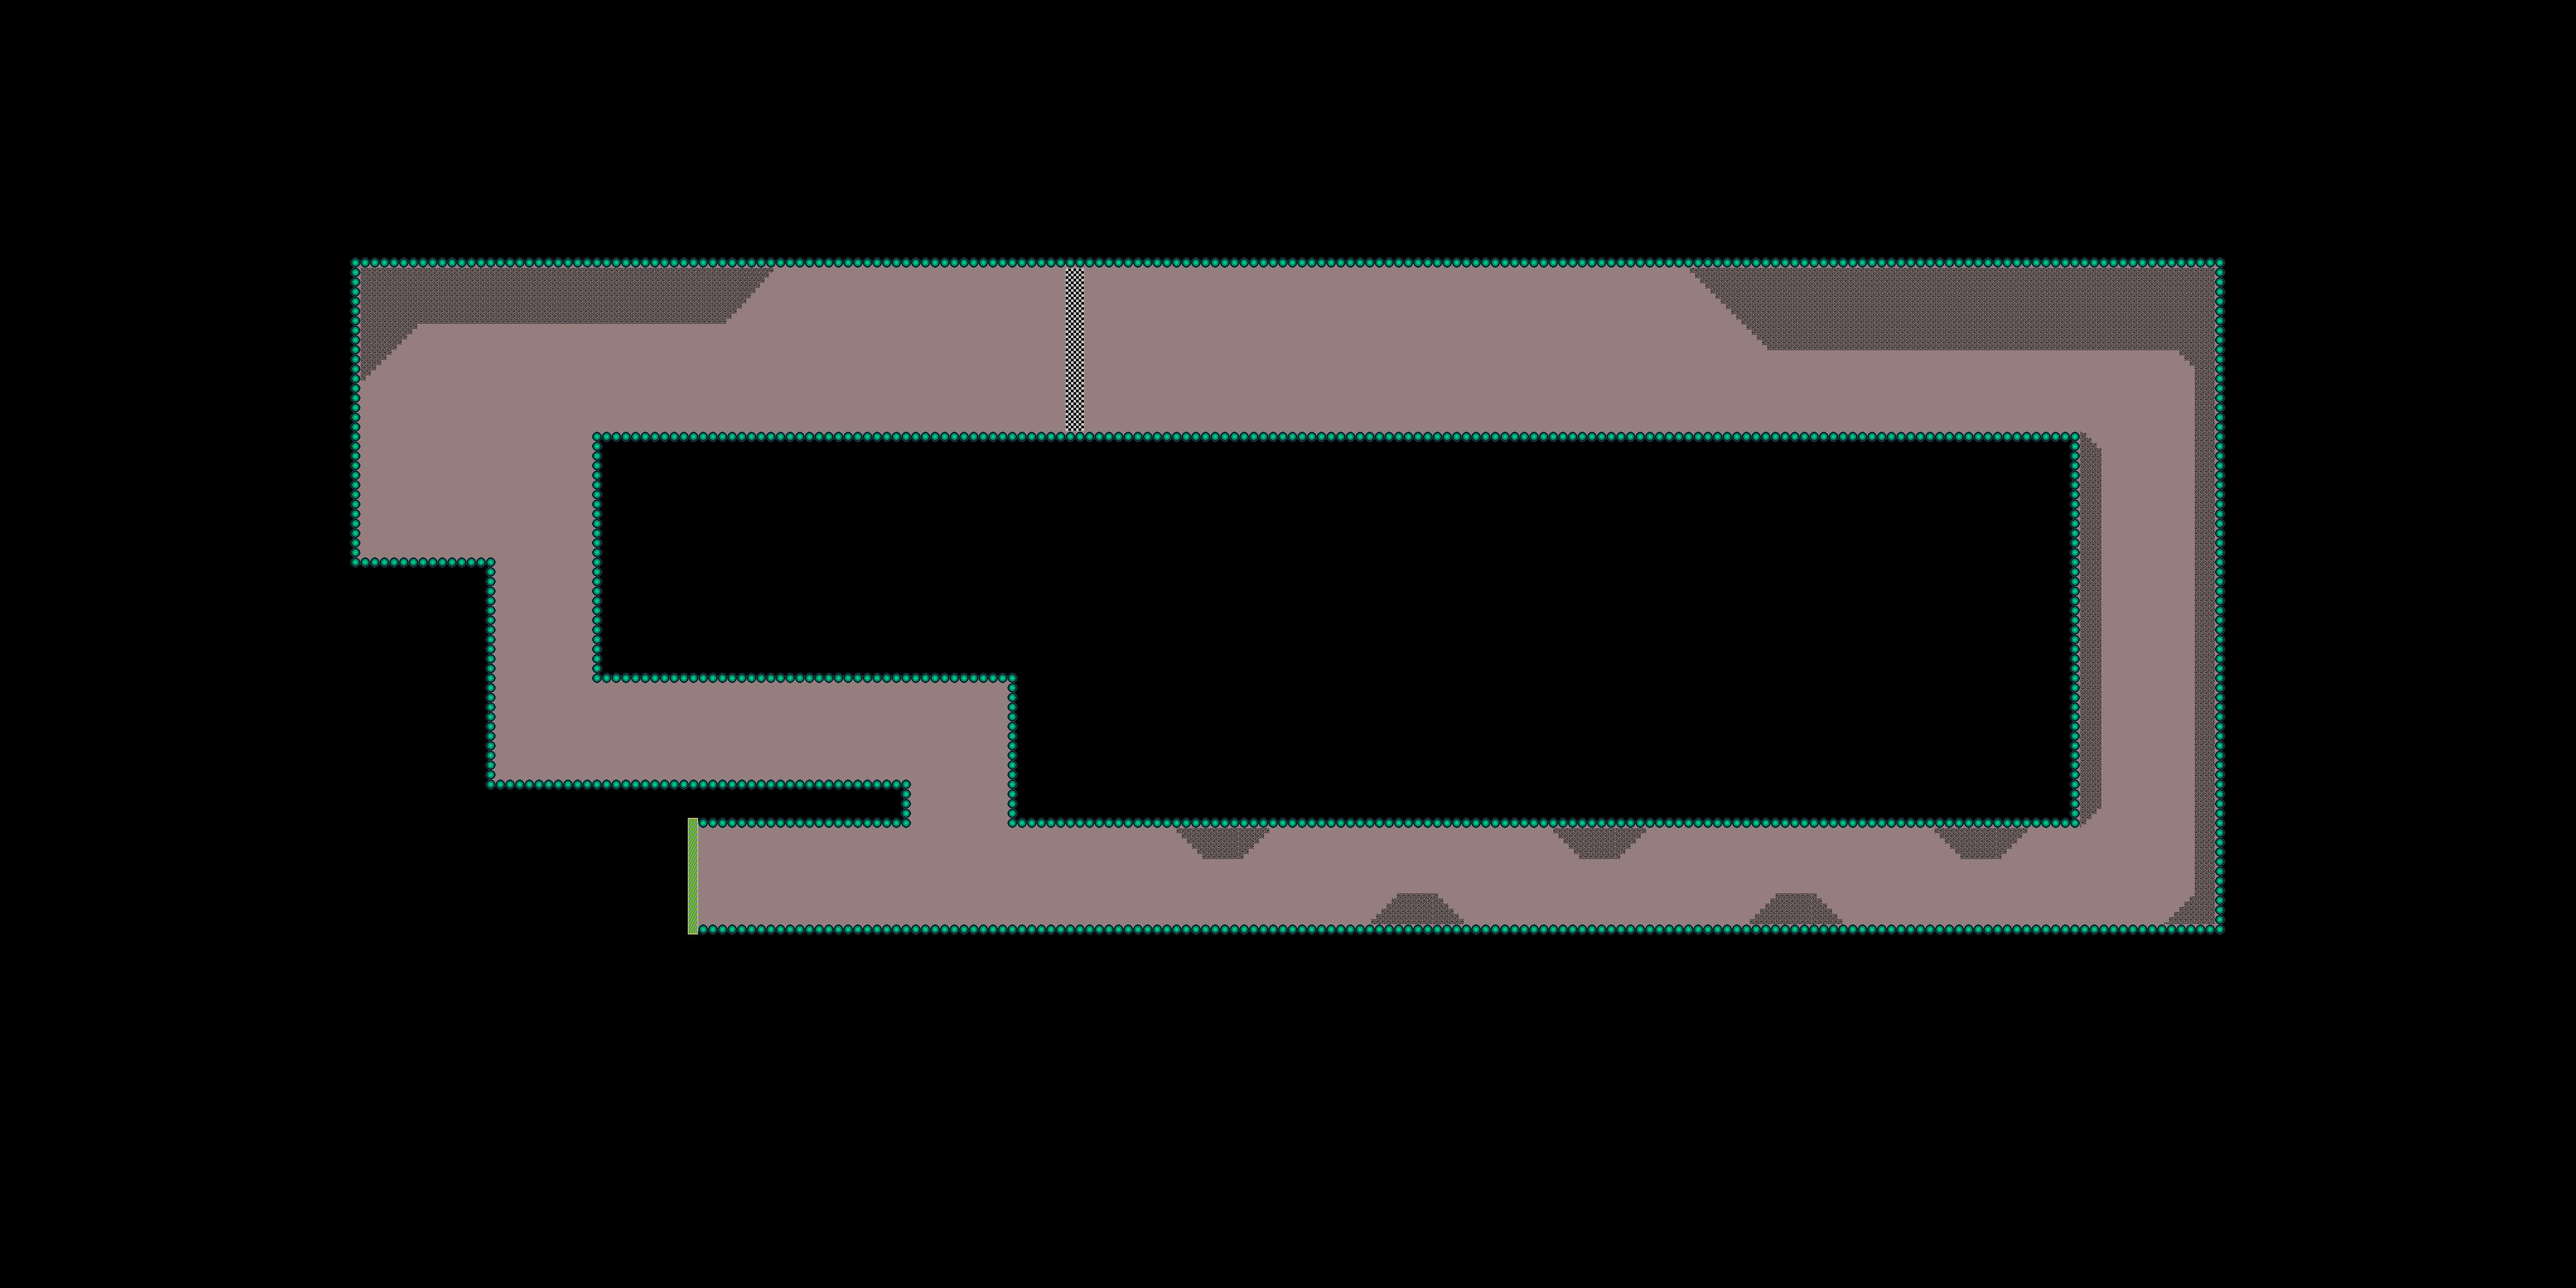
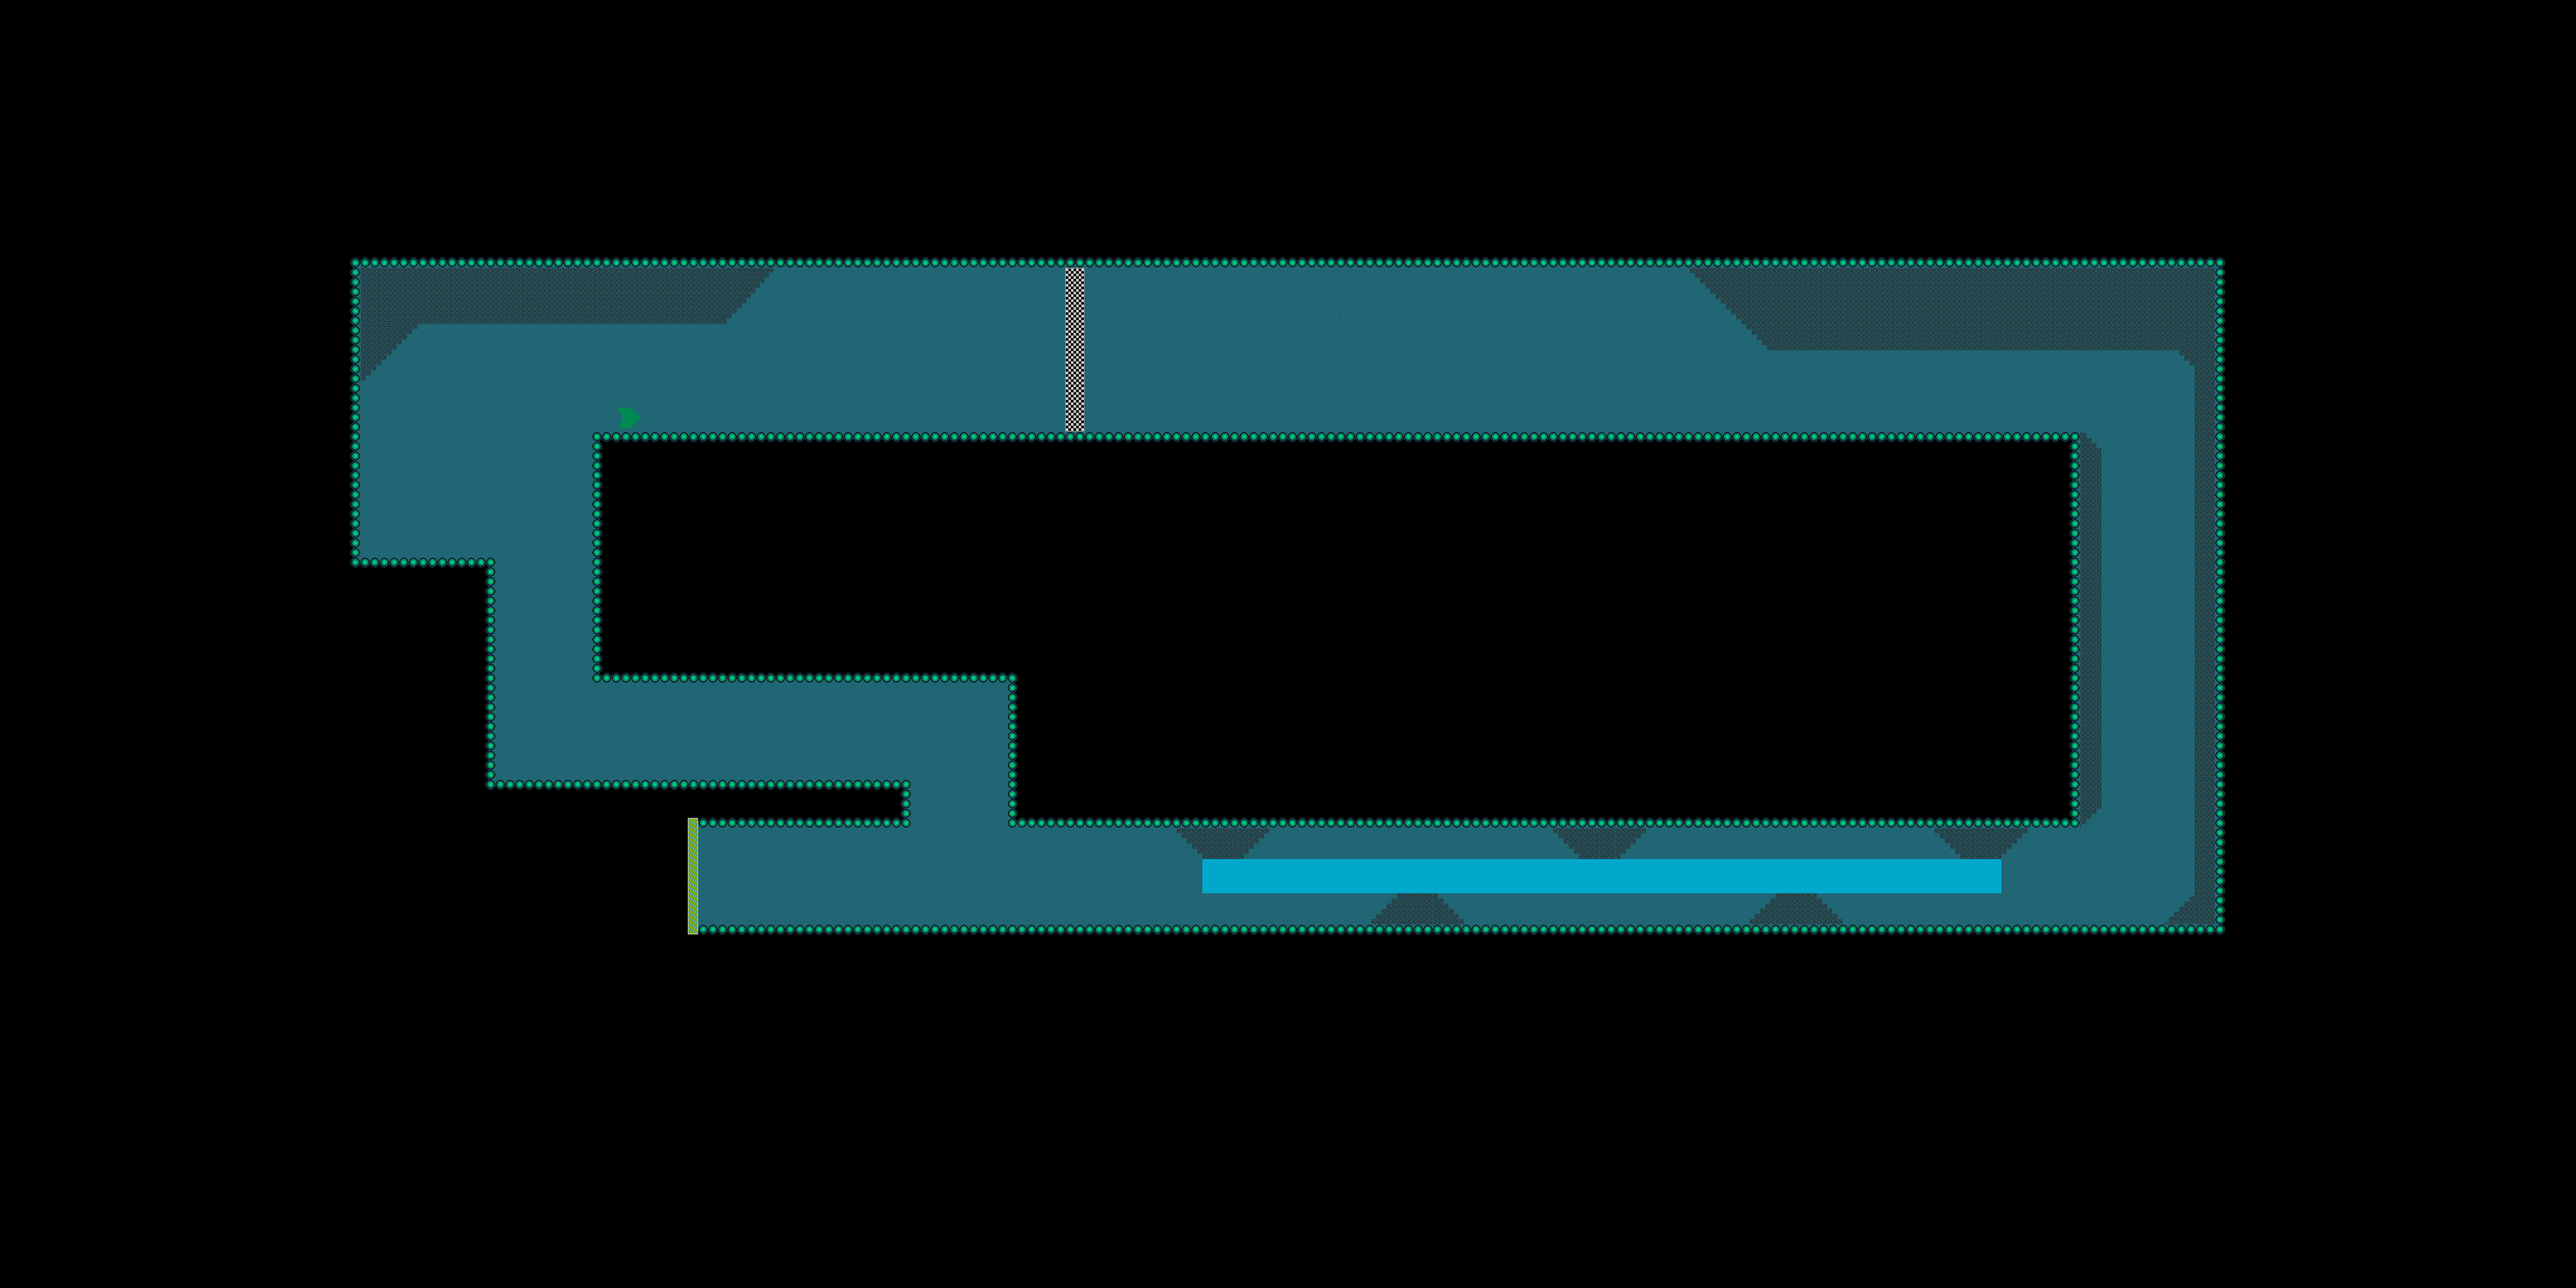
some improvement to the Event Horizon environment graphics

Changed region(s): [[0.125, 0.186, 0.875, 0.744]]

diff --git a/main.py b/main.py
@@ -47,13 +47,25 @@ class App:
         self.races = [
             Race(
                 race_track_creator = TrackCreator.create_track_2023,
+                floor_tex_path = "gfx/event_horizon_track1.png",
+                bg_tex_path = "gfx/event_horizon_bg.png",
+                required_laps = STD_REQUIRED_LAPS,
+                race_mode = "time-attack",
+                init_player_pos_x = 25.55,
+                init_player_pos_y = -119.78,
+                init_player_angle = -111.56,
+                is_foggy = False
+            ),
+            Race(
+                race_track_creator = TrackCreator.create_track_2023,
                 floor_tex_path = "gfx/track_2023.png",
                 bg_tex_path = "gfx/track_2023_bg_resized.png",
                 required_laps = STD_REQUIRED_LAPS,
                 race_mode = "time-attack",
                 init_player_pos_x = 25.55,
                 init_player_pos_y = -119.78,
-                init_player_angle = -111.56
+                init_player_angle = -111.56,
+                is_foggy = True
             ),
             Race(
                 race_track_creator = TrackCreator.create_track_2023_II,
@@ -63,7 +75,8 @@ class App:
                 race_mode = "time-attack",
                 init_player_pos_x = 25.55,
                 init_player_pos_y = -119.78,
-                init_player_angle = -111.56
+                init_player_angle = -111.56,
+                is_foggy = True
             ),
             Race(
                 race_track_creator = TrackCreator.create_monochrome_track,
@@ -73,7 +86,8 @@ class App:
                 race_mode = "time_attack",
                 init_player_pos_x = 25.55,
                 init_player_pos_y = -119.78,
-                init_player_angle = -111.56
+                init_player_angle = -111.56,
+                is_foggy = True
             )
         ]
         self.current_race = self.races[self.current_race_index]
@@ -87,7 +101,7 @@ class App:
             app = self, 
             floor_tex_path = self.current_race.floor_texture_path, 
             bg_tex_path = self.current_race.bg_texture_path,
-            is_foggy = True
+            is_foggy = self.current_race.is_foggy
         )
 
         # debug only: player chooses a machine

diff --git a/race.py b/race.py
@@ -6,7 +6,7 @@
 # - the mode of the race (grand-prix, time-attack, ...)
 class Race:
     def __init__(self, race_track_creator, floor_tex_path, bg_tex_path, required_laps, 
-            init_player_pos_x, init_player_pos_y, init_player_angle, race_mode):
+            init_player_pos_x, init_player_pos_y, init_player_angle, is_foggy, race_mode):
         # create collision map for played track using the passed function
         self.race_track = race_track_creator()
         
@@ -22,6 +22,9 @@ class Race:
         self.init_player_pos_x = init_player_pos_x
         self.init_player_pos_y = init_player_pos_y
         self.init_player_angle = init_player_angle
+
+        # whether the renderer should apply a fog effect during this race
+        self.is_foggy = is_foggy
         
         self.race_mode = race_mode
 
